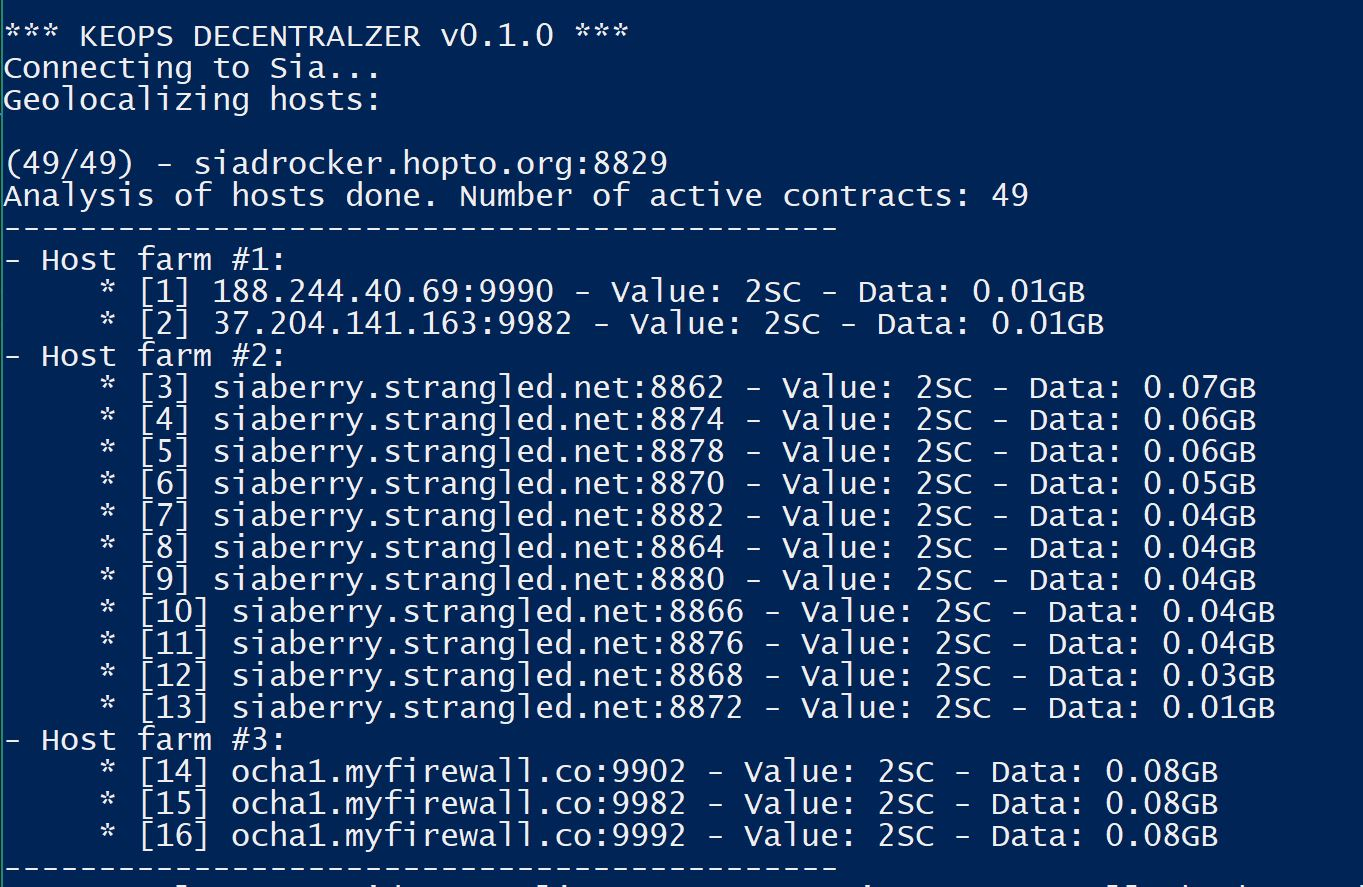
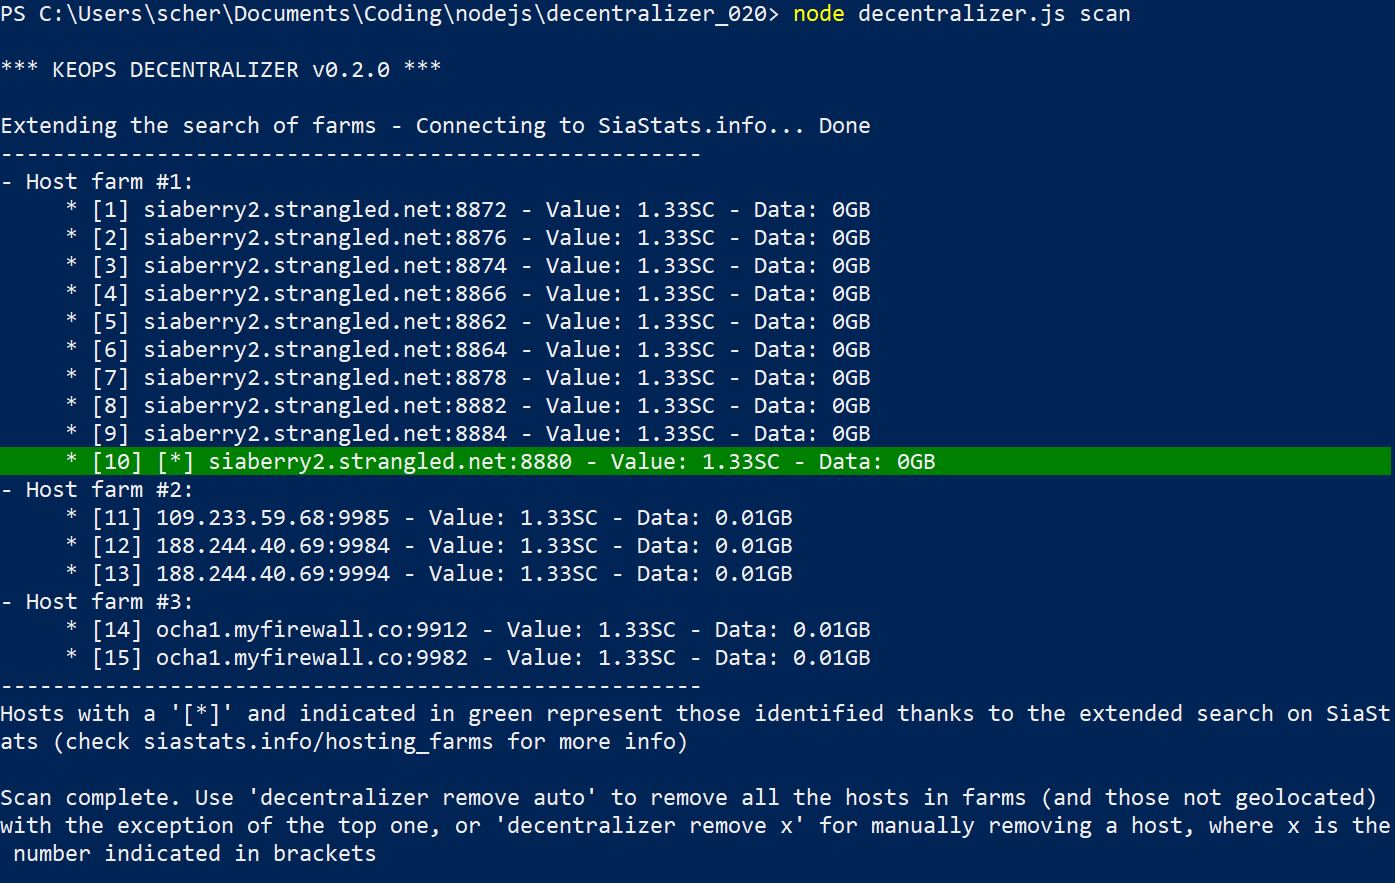
Add files via upload

Changed region(s): [[0.0, 0.0, 1.0, 1.0], [0.5855, 0.1223, 0.6163, 0.1529]]

diff --git a/decentralizer.js b/decentralizer.js
@@ -7,7 +7,7 @@ var argument1 = process.argv[2]
 var argument2 = process.argv[3]
 
 console.log()
-console.log("*** KEOPS DECENTRALIZER v0.1.0 ***")
+console.log("*** KEOPS DECENTRALIZER v0.2.0 ***")
 
 if (argument1 == "scan") {
     siaContracts()
@@ -84,6 +84,7 @@ function requestIP(contracts, i) {
                 //console.log("(" + (i+1) + "/" + contracts.length + ") - " + hostip)
                 contracts[i].lon = lon
                 contracts[i].lat = lat
+                contracts[i].as = ipAPI.as // Also adding the ISP
                 nextIP(contracts, i)
             })
             response.on('error', function (chunk5) {
@@ -111,20 +112,23 @@ function processHosts(contracts) {
 
     // Finding centralized farms
     var hostsGroups = []
-    for (var i = 0; i < contracts.length; i++) { // For each contrct
+    for (var i = 0; i < contracts.length; i++) { // For each contract
         var hostInGroupBool = false
         for (var j = 0; j < hostsGroups.length; j++) {
-            if (contracts[i].lat == hostsGroups[j][0].lat && contracts[i].lon == hostsGroups[j][0].lon) { // Checking if geolocation is the same as the first element in a group
+            if (contracts[i].lat == hostsGroups[j][0].lat && contracts[i].lon == hostsGroups[j][0].lon && contracts[i].as == hostsGroups[j][0].as) { // Checking if geolocation is the same as the first element in a group. Has to match the ISP too
                 hostsGroups[j].push(contracts[i]) // Add host to the group
                 hostInGroupBool = true
                 //console.log("New farm member identified")
+                contracts[i].assigned = true // Flag that the contract has been already included in a farm
             }
         }
         if (hostInGroupBool == false) {
+            contracts[i].assigned = true // Flag that the contract has been already included in a farm
             var newGroup = [contracts[i]]
             hostsGroups.push(newGroup) // Add a new group
         }
     }
+
 
     // Rearranging the array
     var farmNumber = 1
@@ -146,7 +150,8 @@ function processHosts(contracts) {
                     ip: hostsGroups[j][k].netaddress,
                     contract: hostsGroups[j][k].id,
                     cost: parseFloat((hostsGroups[j][k].totalcost/1000000000000000000000000).toFixed(2)),
-                    data: parseFloat((hostsGroups[j][k].size/1000000000).toFixed(2)) // In GB
+                    data: parseFloat((hostsGroups[j][k].size/1000000000).toFixed(2)), // In GB
+                    pubkey: hostsGroups[j][k].hostpublickey.key
                 }
                 farmEntry.hosts.push(hostEntry)
             }
@@ -161,10 +166,16 @@ function processHosts(contracts) {
             farmEntry.hosts.sort(compare);
             
             // Push data
-            if (hostsGroups[j][0].lat > 0) { // Geolocation is a number
+            if (hostsGroups[j][0].lat > 0 || hostsGroups[j][0].lat < 0) { // Geolocation is a number
                 farmList.push(farmEntry)
                 farmNumber++
-            } else { // Geolocation unavailable. Replace element 1 by this
+            } else { // Geolocation unavailable host group
+                // consider these hosts unassigned, as we may have better chances of assigning them later checking with SiaStats
+                for (var p = 0; p < farmEntry.hosts.length; p++) {
+                    farmEntry.hosts[p].assigned = false
+                }
+                
+                // Replace element 1 by this
                 farmList[1].hosts = farmEntry.hosts
             }
             
@@ -174,7 +185,8 @@ function processHosts(contracts) {
                 ip: hostsGroups[j][0].netaddress,
                 contract: hostsGroups[j][0].id,
                 cost: parseFloat((hostsGroups[j][0].totalcost/1000000000000000000000000).toFixed(2)),
-                data: parseFloat((hostsGroups[j][0].size/1000000000).toFixed(2)) // In GB
+                data: parseFloat((hostsGroups[j][0].size/1000000000).toFixed(2)), // In GB
+                pubkey: hostsGroups[j][0].hostpublickey.key
             }
             // Pushing it to the element 0 of farmList, the "Other hosts"
             farmList[0].hosts.push(hostEntry)
@@ -186,28 +198,182 @@ function processHosts(contracts) {
     var string = JSON.stringify(farmList)
     stream.write(string)
 
+    siastatsQuery(farmList, contracts)
+}
+
+
+function siastatsQuery(farmList, contracts) {
+    process.stdout.write("\nExtending the search of farms - Connecting to SiaStats.info... ")
+    http.get("http://siastats.info/dbs/farms_api.json").on('response', function (response) {
+        var body4 = '';
+        var i4 = 0;
+        response.on('data', function (chunk4) {
+            i4++;
+            body4 += chunk4;
+        });
+        response.on('end', function () {
+            testChar = body4.slice(0,1)
+            if (testChar == "[") {
+                var siastatsFarms = JSON.parse(body4)
+                process.stdout.write("Done\n")
+                
+                // On success, save the file locally for future access in case SiaStats is unavailable
+                var stream = fs.createWriteStream('siastats_farms_database.json')
+                var string = JSON.stringify(siastatsFarms)
+                stream.write(string)
+                
+                // Proceed
+                siastatsProcess(farmList, contracts, siastatsFarms)
+            } else {
+                siastatsOpenFile(farmList, contracts)
+            }
+        })
+        response.on('error', function (chunk4) {
+            siastatsOpenFile(farmList, contracts)
+        });
+    })
+}
+
+function siastatsOpenFile(farmList, contracts) {
+    // On failed retrieval, open the local file instead
+    process.stdout.write("Failed\n")
+    process.stdout.write("Opening the local copy of SiaStats database instead... ")
+    var stream2 = fs.createReadStream('siastats_farms_database.json')
+    var data2= ''
+    var chunk2
+    stream2.on('readable', function() { //Function just to read the whole file before proceeding
+        while ((chunk2=stream2.read()) != null) {
+            data2 += chunk2;}
+    });
+    stream2.on('end', function() {
+        if (data2 != "") {
+            var siastatsFarms = JSON.parse(data2)
+        } else {
+            var siastatsFarms = []
+        }
+        process.stdout.write("Done\n")
+        siastatsProcess(farmList, contracts, siastatsFarms)
+    })
+    stream2.on('error', function() {
+        // On error opening the file, just proceed to show the farms on screen
+        process.stdout.write("Failed\n")
+        showFarms(farmList)
+    })
+}
+
+
+function siastatsProcess(farmList, contracts, siastatsFarms) {
+    // This function compares our farmList with the list of siastats farms, to add the remaining farm-positive contracts to farmList
+
+    // A - Create a temporal array where we add contracts not yet assigned, and belonging to farms, to groups
+    // Iterate on the list of farms, on each host of it
+    var extraGroups = []
+    for (var j = 0; j < siastatsFarms.length; j++) {
+        extraGroups.push({ // Adding an empty sub-array. We will fill it with contracts if positive for a farm
+            farm: siastatsFarms[j].farm,
+            hosts: []
+        }) 
+        for (var k = 0; k < siastatsFarms[j].hosts.length; k++) {
+            // Iterate on the list of contracts not yet assigned to a farm
+            for (var i = 0; i< contracts.length; i++) {
+                if (contracts[i].assigned != true && siastatsFarms[j].hosts[k].pubkey == contracts[i].hostpublickey.key){ // Match of public keys: the host is in a farm!
+                    extraGroups[j].hosts.push(contracts[i])
+                }
+            }
+        }
+    }
+    
+    // B - Assign these groups to farms already identified (farmsList). Add a flag about SiaStats
+    // Iterate on the farmList to find matches with the siaStats database. If a match, we will iterate on extraGroups and add hosts if they match the farm ID
+    for (var i = 0; i < farmList.length; i++) {
+        for (var j = 0; j < farmList[i].hosts.length; j++) {
+
+            // Iterating on siastatsFarms
+            for (var k = 0; k < siastatsFarms.length; k++) {
+                for (l = 0; l < siastatsFarms[k].hosts.length; l++) {
+                    if (farmList[i].hosts[j].pubkey == siastatsFarms[k].hosts[l].pubkey) { // Matched farm
+                        
+                        // Now we iterate on our newGroups array, to find the one carrying the .farm property that matches
+                        for (var m = 0; m < extraGroups.length; m++) {
+                            if (extraGroups[m].farm == siastatsFarms[k].farm) { // Match!
+                                
+                                // B1 - Assign the hosts of the group to the farm list
+                                for (var n = 0; n < extraGroups[m].hosts.length; n++) {
+                                    farmList[i].hosts.push({
+                                        ip: extraGroups[m].hosts[n].netaddress,
+                                        contract: extraGroups[m].hosts[n].id,
+                                        cost: parseFloat((extraGroups[m].hosts[n].totalcost/1000000000000000000000000).toFixed(2)),
+                                        data: parseFloat((extraGroups[m].hosts[n].size/1000000000).toFixed(2)), // In GB
+                                        siastatsFlag: true // Add the flag to the latest host of that farm (the one we just pushed)
+                                    })
+                                }
+
+                                // B2 - Remove the group from extraGroups
+                                extraGroups.splice(m, 1)
+                            }
+                        }
+                    }
+                }
+            }
+        }
+    }
+
+    // C - Push unassigned groupd with 2+ contracts to a new farm. Add a flag about SiaStats
+    for (var i = 0; i < extraGroups.length; i++) {
+        if (extraGroups[i].hosts.length >= 2) {
+            // Initializing new entry
+            newEntry = {
+                farm: "SiaStats-" + extraGroups[i].farm,
+                hosts: []
+            }
+            for (var j = 0; j < extraGroups[i].hosts.length; j++) { // For each host in the group
+                newEntry.hosts.push({
+                    ip: extraGroups[i].hosts[j].netaddress,
+                    contract: extraGroups[i].hosts[j].id,
+                    cost: parseFloat((extraGroups[i].hosts[j].totalcost/1000000000000000000000000).toFixed(2)),
+                    data: parseFloat((extraGroups[i].hosts[j].size/1000000000).toFixed(2)), // In GB
+                    siastatsFlag: true // Add the flag to the latest host of that farm (the one we just pushed)
+                })
+            }
+
+            farmList.push(newEntry)
+        }
+    }
+
+    // Saving the file again, updated
+    var stream = fs.createWriteStream('farms.json')
+    var string = JSON.stringify(farmList)
+    stream.write(string)
+
     showFarms(farmList)
 }
 
 
 function showFarms(farmList) {
-    console.log("--------------------------------------------")
+    console.log("------------------------------------------------------")
     var listNumber = 1
     for (var i = 1; i < farmList.length; i++) {
         if (farmList[i].hosts.length > 0) { // For not displaying the not geolocated if there is no host in this category
             console.log("- " + farmList[i].farm + ":")
             for (var j = 0; j < farmList[i].hosts.length; j++) {
-                console.log("     * [" + listNumber + "] " + farmList[i].hosts[j].ip + " - Value: " + farmList[i].hosts[j].cost + "SC - Data: " + farmList[i].hosts[j].data + "GB")
-                listNumber++
+                if (farmList[i].hosts[j].siastatsFlag == true) { // Add a special labelling for hosts identified by SiaStats
+                    console.log('\x1b[42m%s\x1b[0m', "     * [" + listNumber + "] [*] " + farmList[i].hosts[j].ip + " - Value: " + farmList[i].hosts[j].cost + "SC - Data: " + farmList[i].hosts[j].data + "GB")
+                    listNumber++
+                } else {
+                    console.log("     * [" + listNumber + "] " + farmList[i].hosts[j].ip + " - Value: " + farmList[i].hosts[j].cost + "SC - Data: " + farmList[i].hosts[j].data + "GB")
+                    listNumber++
+                }
             }
         }
     }
     if (farmList.length <= 2) {
         console.log("No host farms have been found in your contracts list")
     }
-    console.log("--------------------------------------------")
+    console.log("------------------------------------------------------")
     if (farmList.length > 2) {
-        console.log("Scan complete. Use 'decentralizer remove auto' to remove all the hosts in farms (and not geolocated) with the exception of the top one, or 'decentralizer remove x' for manually removing a host, where x is the number indicated in brackets")
+        console.log("Hosts with a '[*]' and indicated in green represent those identified thanks to the extended search on SiaStats (check siastats.info/hosting_farms for more info)")
+        console.log()
+        console.log("Scan complete. Use 'decentralizer remove auto' to remove all the hosts in farms (and those not geolocated) with the exception of the top one, or 'decentralizer remove x' for manually removing a host, where x is the number indicated in brackets")
     }
     console.log()
 }
@@ -330,10 +496,10 @@ function removeTest(argument2) {
                     }
                 }
             }
-            if (contractsToRemove.length > 15) {
-                console.log("WARNING: Removing this amount of hosts in a single action can provoke data loss if you do not have the files locally anymore. It is recommended instead to remove a smaller (<15) number of hosts and allow file redundancy repair to 3x before proceeding with the next batch of hosts to remove. Proceed only at your own risk")
-                console.log()
-            } 
+            //if (contractsToRemove.length > 15) {
+                //console.log("WARNING: Removing this amount of hosts in a single action can provoke data loss if you do not have the files locally anymore. It is recommended instead to remove a smaller (<15) number of hosts and allow file redundancy repair to 3x before proceeding with the next batch of hosts to remove. Proceed only at your own risk")
+                //console.log()
+            //} 
             console.log("This will remove " + contractsToRemove.length + " contracts with hosts. Proceed? (y/n)")
 
             // Input form
@@ -403,6 +569,8 @@ function cancelContract(contractNum, contractsToRemove, attempt) {
             process.stdout.write(" RETRYING")
             if (attempt > 3) {
                 console.log("Error with command. This contract was not canceled: " + contractsToRemove[contractNum].ip)
+                contractNum++
+                cancelContract(contractNum, contractsToRemove, attempt)
             } else { // Retry up to 3 times
                 cancelContract(contractNum, contractsToRemove, attempt)
             }
@@ -413,6 +581,8 @@ function cancelContract(contractNum, contractsToRemove, attempt) {
         process.stdout.write(" RETRYING")
         if (attempt > 3) {
             console.log("Error connecting to Sia. This contract was not canceled: " + contractsToRemove[contractNum].ip)
+            contractNum++
+            cancelContract(contractNum, contractsToRemove, attempt)
         } else { // Retry up to 3 times
             cancelContract(contractNum, contractsToRemove, attempt)
         }
